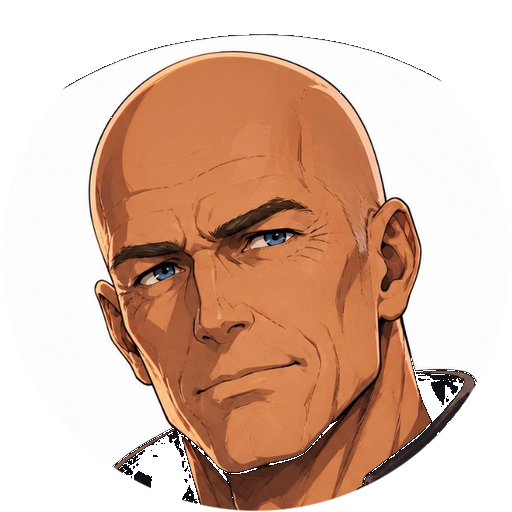
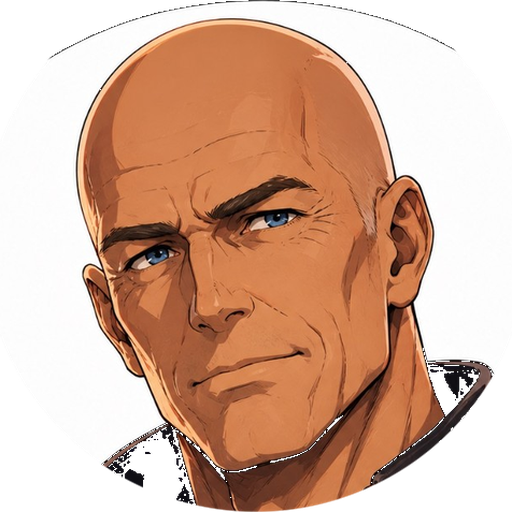
Recenter AI personality portraits so they fill square frames. (#105)
The newer PNG avatars (Clementine, Ann, Clare, Teaching Hammond) sat in a dropped circular mask with a black band at the top, so they looked low in picker and chat frames. Recrop them to fill the square, lift Clementine and Clare, and drop the CSS zoom/object-position workarounds that were hiding the letterboxing.

diff --git a/tests/unit/agent-avatar-frames.test.js b/tests/unit/agent-avatar-frames.test.js
@@ -1,0 +1,104 @@
+import test from 'node:test';
+import assert from 'node:assert/strict';
+import { readFile } from 'node:fs/promises';
+import { inflateSync } from 'node:zlib';
+
+const PNG_AVATARS = [
+  'apps/life/assets/agents/clementine.png',
+  'apps/life/assets/agents/ann.png',
+  'apps/life/assets/agents/clare.png',
+  'apps/knowledge/public/assets/agents/clementine.png',
+  'apps/knowledge/public/assets/agents/ann.png',
+  'apps/teaching/public/assets/agents/clementine.png',
+  'apps/teaching/public/assets/agents/ann.png',
+  'apps/teaching/public/assets/agents/clare.png',
+  'apps/teaching/public/assets/agents/hammond.png',
+  'apps/tasks/public/assets/agents/clare.png'
+];
+
+function decodePngRgba(buf) {
+  assert.equal(buf[0], 0x89, 'expected PNG signature');
+  let offset = 8;
+  let width = 0;
+  let height = 0;
+  let colorType = 0;
+  const idats = [];
+  while (offset + 8 <= buf.length) {
+    const length = buf.readUInt32BE(offset);
+    const type = buf.toString('ascii', offset + 4, offset + 8);
+    const data = buf.subarray(offset + 8, offset + 8 + length);
+    if (type === 'IHDR') {
+      width = data.readUInt32BE(0);
+      height = data.readUInt32BE(4);
+      colorType = data[9];
+    } else if (type === 'IDAT') {
+      idats.push(data);
+    } else if (type === 'IEND') {
+      break;
+    }
+    offset += 12 + length;
+  }
+  assert.equal(colorType, 6, 'expected 8-bit RGBA PNG avatars');
+  const raw = inflateSync(Buffer.concat(idats));
+  const bpp = 4;
+  const stride = width * bpp;
+  const pixels = Buffer.alloc(stride * height);
+  let src = 0;
+  let prev = Buffer.alloc(stride);
+  for (let y = 0; y < height; y += 1) {
+    const filter = raw[src];
+    src += 1;
+    const row = raw.subarray(src, src + stride);
+    src += stride;
+    const dest = pixels.subarray(y * stride, (y + 1) * stride);
+    for (let i = 0; i < stride; i += 1) {
+      const left = i >= bpp ? dest[i - bpp] : 0;
+      const up = prev[i];
+      const upLeft = i >= bpp ? prev[i - bpp] : 0;
+      let recon = row[i];
+      if (filter === 1) recon = (recon + left) & 255;
+      else if (filter === 2) recon = (recon + up) & 255;
+      else if (filter === 3) recon = (recon + ((left + up) >> 1)) & 255;
+      else if (filter === 4) {
+        const p = left + up - upLeft;
+        const pa = Math.abs(p - left);
+        const pb = Math.abs(p - up);
+        const pc = Math.abs(p - upLeft);
+        const pred = pa <= pb && pa <= pc ? left : pb <= pc ? up : upLeft;
+        recon = (recon + pred) & 255;
+      } else if (filter !== 0) {
+        throw new Error(`unsupported PNG filter ${filter}`);
+      }
+      dest[i] = recon;
+    }
+    prev = Buffer.from(dest);
+  }
+  return { width, height, pixels };
+}
+
+function isBlack(pixels, width, x, y) {
+  const i = (y * width + x) * 4;
+  return pixels[i + 3] < 12 || (pixels[i] < 22 && pixels[i + 1] < 22 && pixels[i + 2] < 22);
+}
+
+test('PNG personality portraits are square and fill the top of their frame', async () => {
+  for (const relative of PNG_AVATARS) {
+    const buf = await readFile(new URL(`../../${relative}`, import.meta.url));
+    const { width, height, pixels } = decodePngRgba(buf);
+    assert.equal(width, height, `${relative} should be square`);
+    assert.ok(width >= 512, `${relative} should be at least 512px`);
+
+    const band = Math.max(2, Math.round(height * 0.03));
+    let content = 0;
+    for (let y = 0; y < band; y += 1) {
+      for (let x = Math.floor(width * 0.35); x < Math.ceil(width * 0.65); x += 1) {
+        if (!isBlack(pixels, width, x, y)) content += 1;
+      }
+    }
+    const sampled = band * Math.ceil(width * 0.3);
+    assert.ok(
+      content / sampled > 0.5,
+      `${relative} has a black band at the top of the square (${content}/${sampled} content pixels)`
+    );
+  }
+});

diff --git a/apps/knowledge/src/style.css b/apps/knowledge/src/style.css
@@ -3032,10 +3032,11 @@ body.is-universe-fullscreen .local-banner {
 }
 
 .agent-picker__avatar img {
-  width: 118%;
-  height: 118%;
+  width: 100%;
+  height: 100%;
   max-width: none;
   object-fit: cover;
+  object-position: center;
   display: block;
   border-radius: 50%;
 }
@@ -3114,7 +3115,7 @@ body.is-universe-fullscreen .local-banner {
   height: 2.25rem;
   border-radius: 50%;
   object-fit: cover;
-  object-position: center 42%;
+  object-position: center;
   flex: 0 0 auto;
   background: var(--paper);
 }
@@ -3291,7 +3292,7 @@ body.is-universe-fullscreen .local-banner {
   height: 3.5rem;
   border-radius: 50%;
   object-fit: cover;
-  object-position: center 42%;
+  object-position: center;
   background: var(--paper);
 }
 

diff --git a/apps/life/css/app.css b/apps/life/css/app.css
@@ -3692,6 +3692,7 @@ main { max-width: 76rem; margin: 0 auto; }
   width: 100%;
   height: 100%;
   object-fit: cover;
+  object-position: center;
   display: block;
   border-radius: 50%;
 }
@@ -3715,6 +3716,7 @@ main { max-width: 76rem; margin: 0 auto; }
   height: 3.25rem;
   border-radius: 50%;
   object-fit: cover;
+  object-position: center;
   flex: 0 0 auto;
   margin-top: 0.1rem;
 }

diff --git a/apps/teaching/src/styles/app.css b/apps/teaching/src/styles/app.css
@@ -997,7 +997,7 @@ a:hover {
   width: 100%;
   height: 100%;
   object-fit: cover;
-  object-position: center top;
+  object-position: center;
   display: block;
 }
 
@@ -1071,7 +1071,7 @@ a:hover {
   width: 100%;
   height: 100%;
   object-fit: cover;
-  object-position: center top;
+  object-position: center;
   display: block;
 }
 

diff --git a/apps/tasks/src/styles/lesson-engine.css b/apps/tasks/src/styles/lesson-engine.css
@@ -413,7 +413,7 @@
   width: 100%;
   height: 100%;
   object-fit: cover;
-  object-position: center top;
+  object-position: center;
   display: block;
 }
 
@@ -487,7 +487,7 @@
   width: 100%;
   height: 100%;
   object-fit: cover;
-  object-position: center top;
+  object-position: center;
   display: block;
 }
 

diff --git a/apps/tasks/src/styles/views.css b/apps/tasks/src/styles/views.css
@@ -2024,6 +2024,7 @@
   width: 100%;
   height: 100%;
   object-fit: cover;
+  object-position: center;
   display: block;
   border-radius: 50%;
 }
@@ -2065,6 +2066,7 @@
   height: 2rem;
   border-radius: 50%;
   object-fit: cover;
+  object-position: center;
   flex: 0 0 auto;
   margin-top: 0.25rem;
 }
